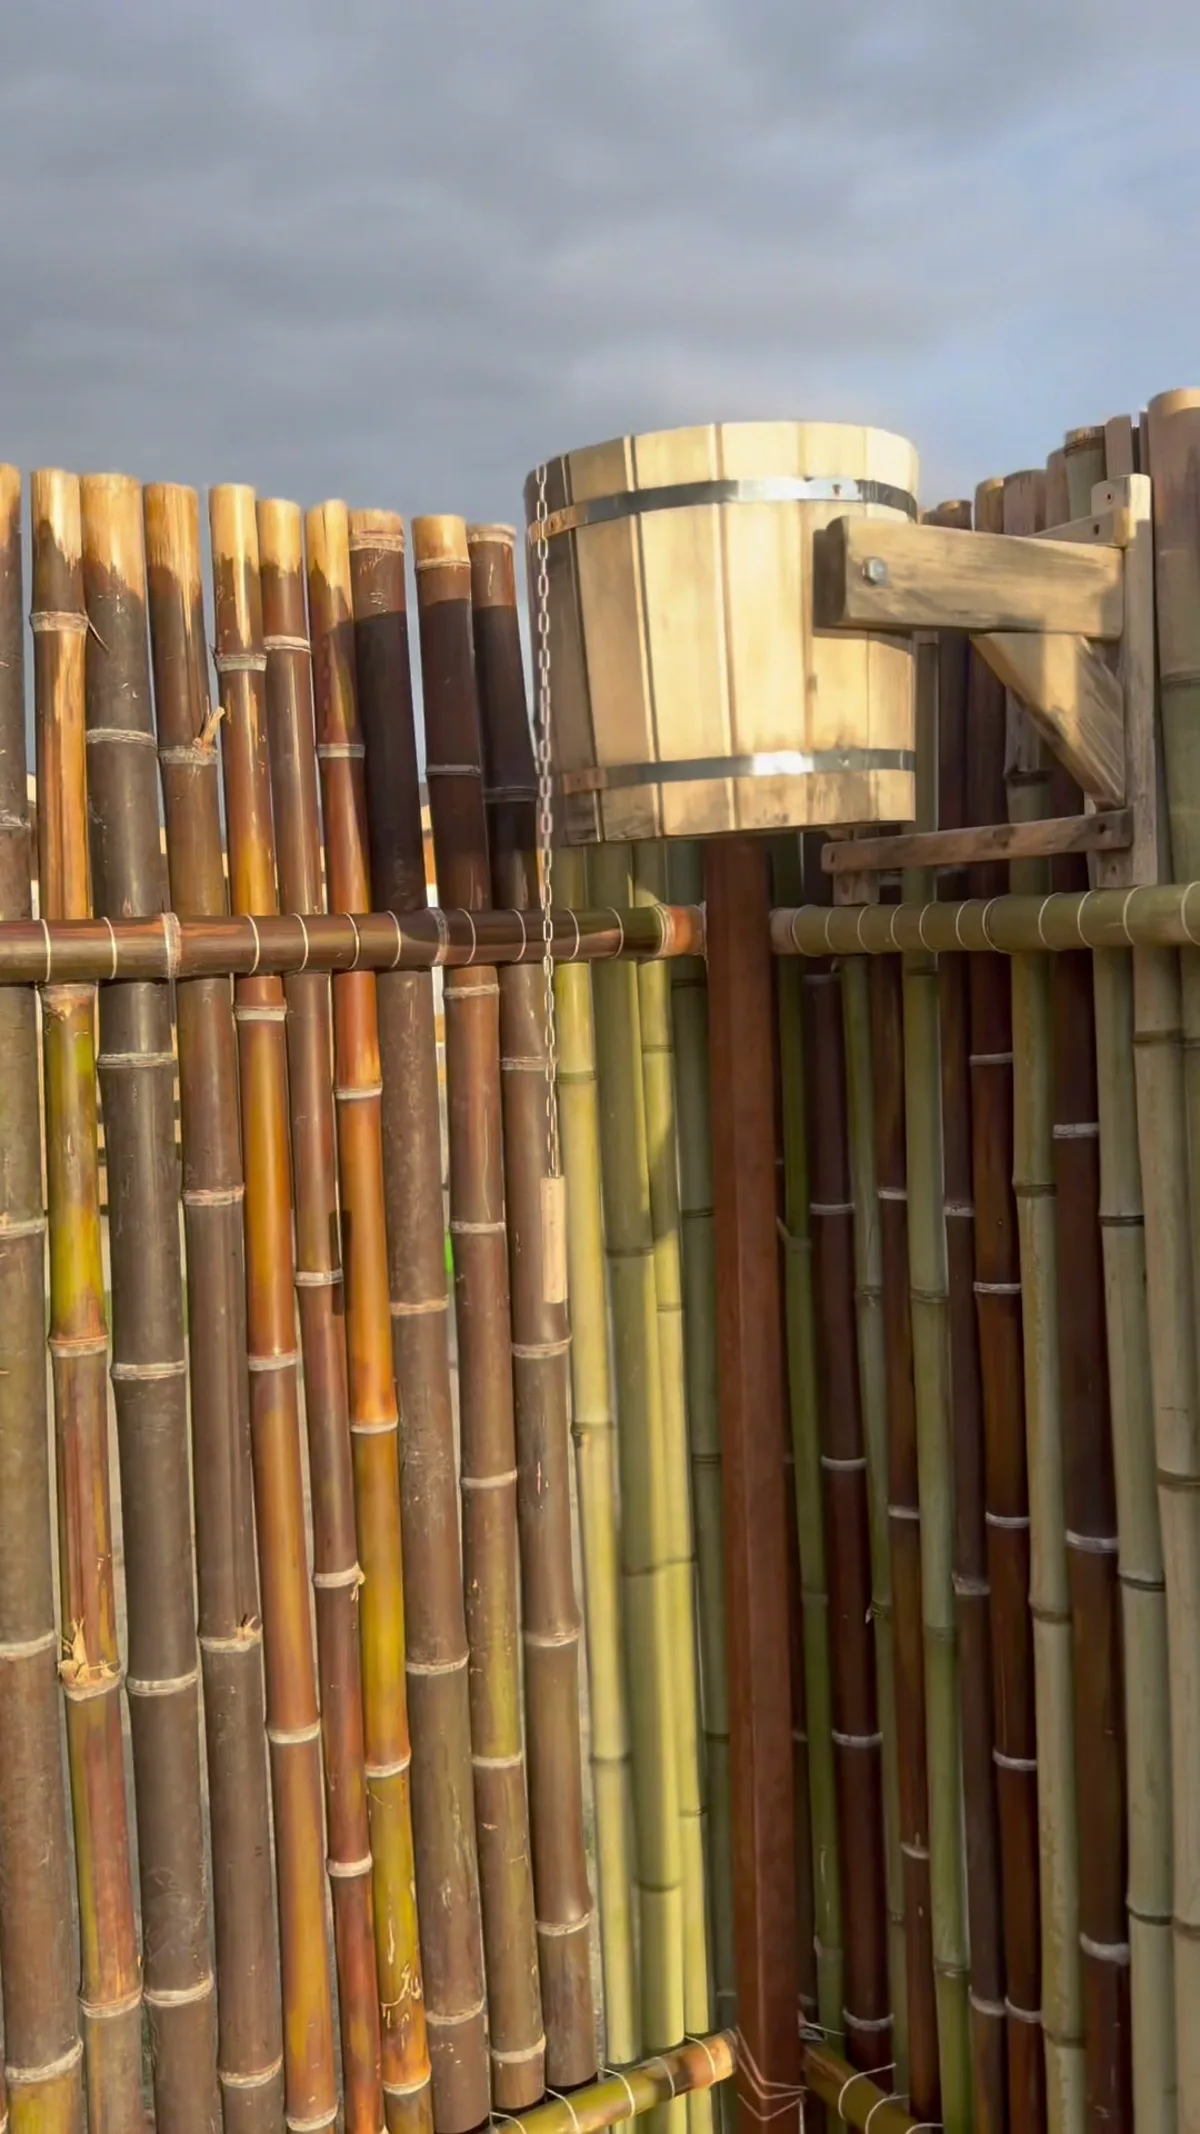
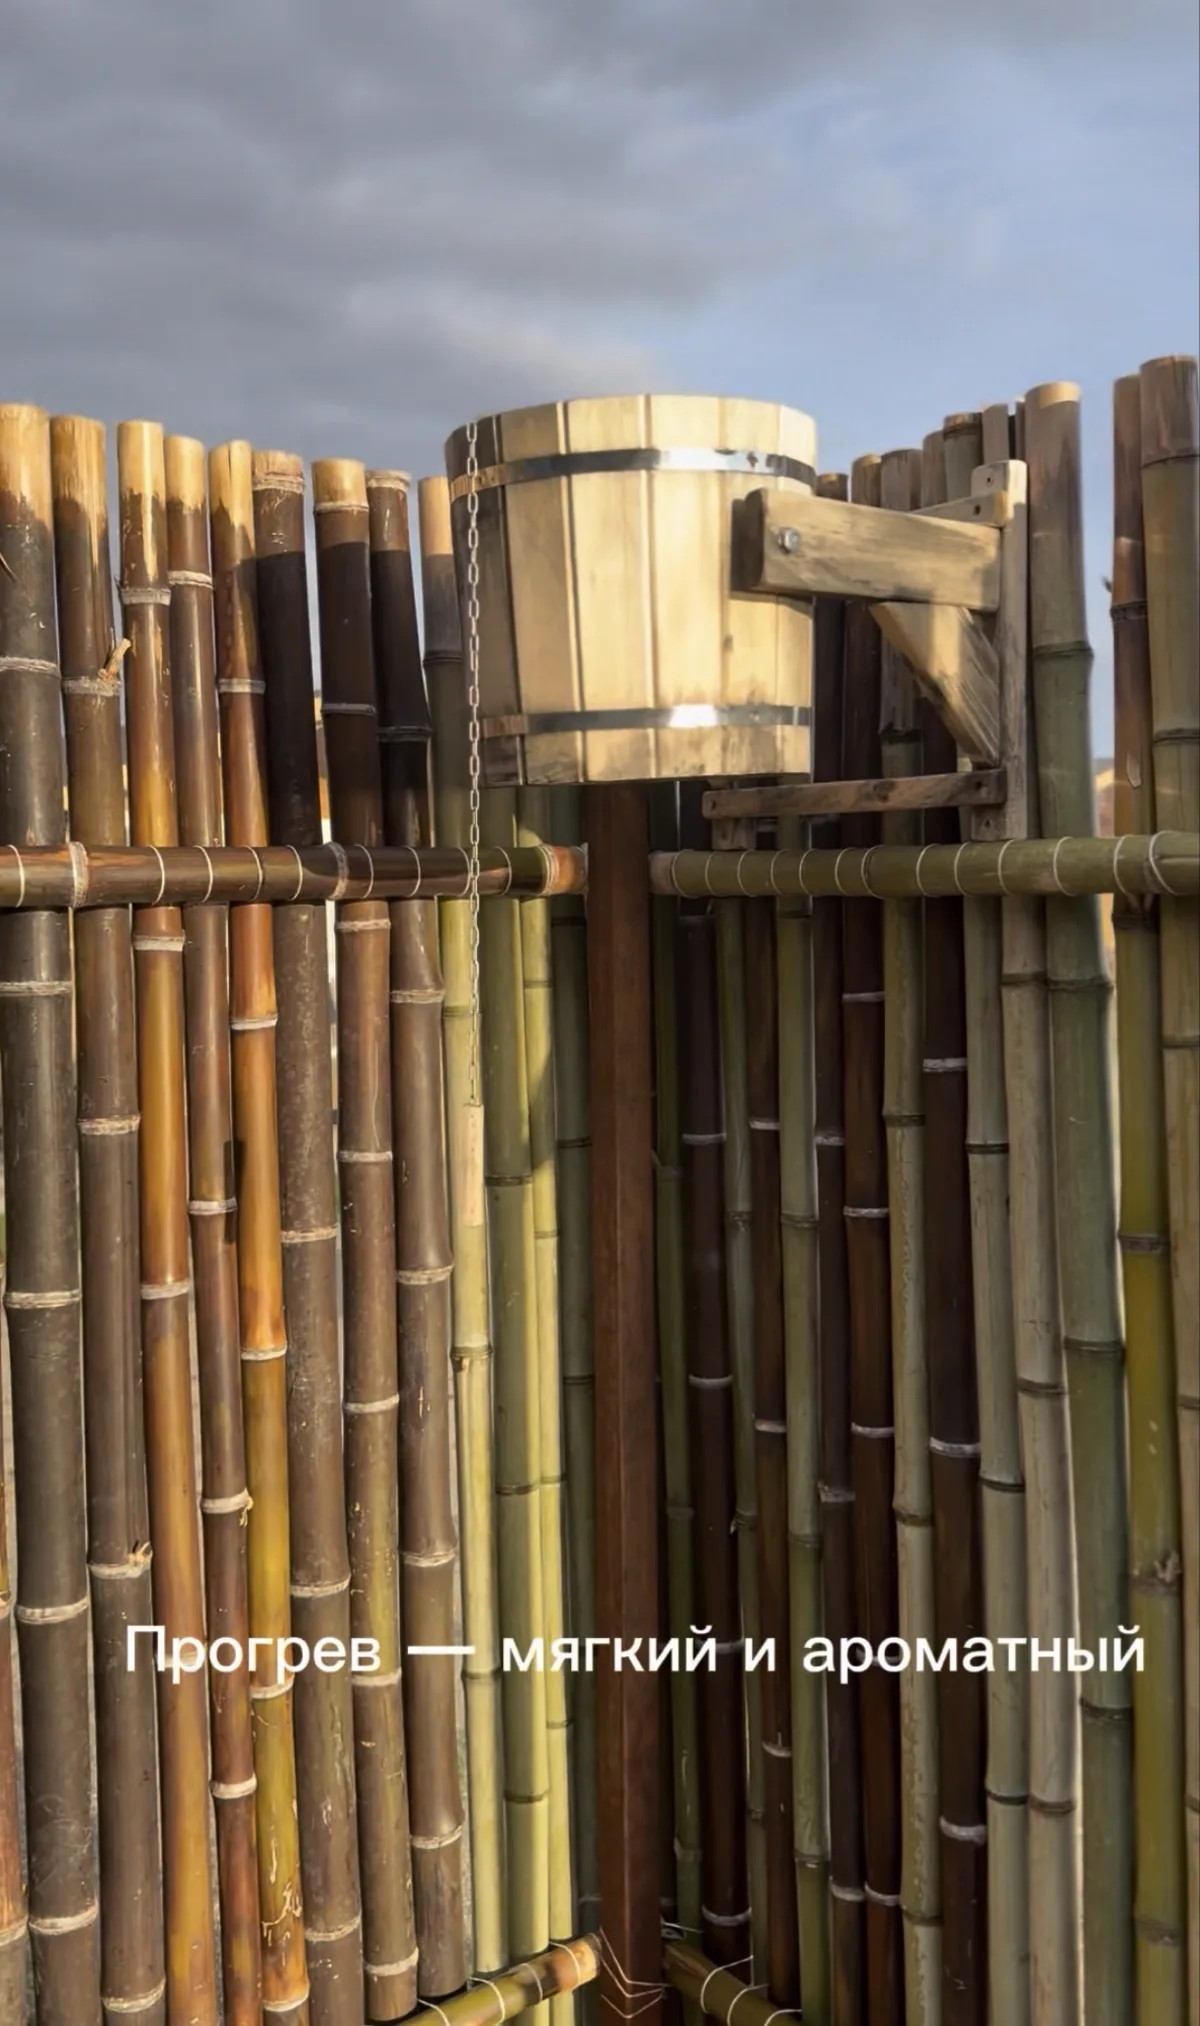
Banya: real sauna photos - exterior, wooden bucket, interior

diff --git a/articles/article-banya.html b/articles/article-banya.html
@@ -80,8 +80,10 @@
 
     <section class="article-body">
             <div style="display:flex;gap:12px;margin:24px 0;flex-wrap:wrap;">
-              <img src="https://raw.githubusercontent.com/lifestyleabkhazia-beep/lifestyle-blog-images/main/images/banya-bucket.webp" alt="Деревянный ушат и бамбуковый забор — банный дворик эко-отеля LIFESTYLE, Абхазия" style="width:calc(50% - 6px);border-radius:12px;object-fit:cover;" loading="lazy" />
-              <img src="https://raw.githubusercontent.com/lifestyleabkhazia-beep/lifestyle-blog-images/main/images/banya-guests-sunset1.webp" alt="Гости после бани на закате у моря — тепло в теле, тишина в голове. LIFESTYLE Абхазия" style="width:calc(50% - 6px);border-radius:12px;object-fit:cover;" loading="lazy" />
+              <img src="https://raw.githubusercontent.com/lifestyleabkhazia-beep/lifestyle-blog-images/main/images/banya-bucket.webp" alt="Деревянный ушат — обливание холодной водой после бани. LIFESTYLE Абхазия" style="width:calc(50% - 6px);border-radius:12px;object-fit:cover;" loading="lazy" />
+              
+            <img src="https://raw.githubusercontent.com/lifestyleabkhazia-beep/lifestyle-blog-images/main/images/banya-interior.webp" alt="Внутри бани на дровах — деревянные полки и окошко. Пар под шум волн, LIFESTYLE Абхазия" style="width:100%;border-radius:12px;margin:24px 0;" loading="lazy" />
+            <img src="https://raw.githubusercontent.com/lifestyleabkhazia-beep/lifestyle-blog-images/main/images/banya-guests-sunset1.webp" alt="Гости после бани на закате у моря — тепло в теле, тишина в голове. LIFESTYLE Абхазия" style="width:calc(50% - 6px);border-radius:12px;object-fit:cover;" loading="lazy" />
             </div>
             <img src="https://raw.githubusercontent.com/lifestyleabkhazia-beep/lifestyle-blog-images/main/images/banya-guests-sunset2.webp" alt="Семья в халатах LIFESTYLE после бани на дровах — запиши парение у моря в СПА LIFESTYLE" style="width:100%;border-radius:12px;margin:24px 0;" loading="lazy" />
       <div class="container container--default">